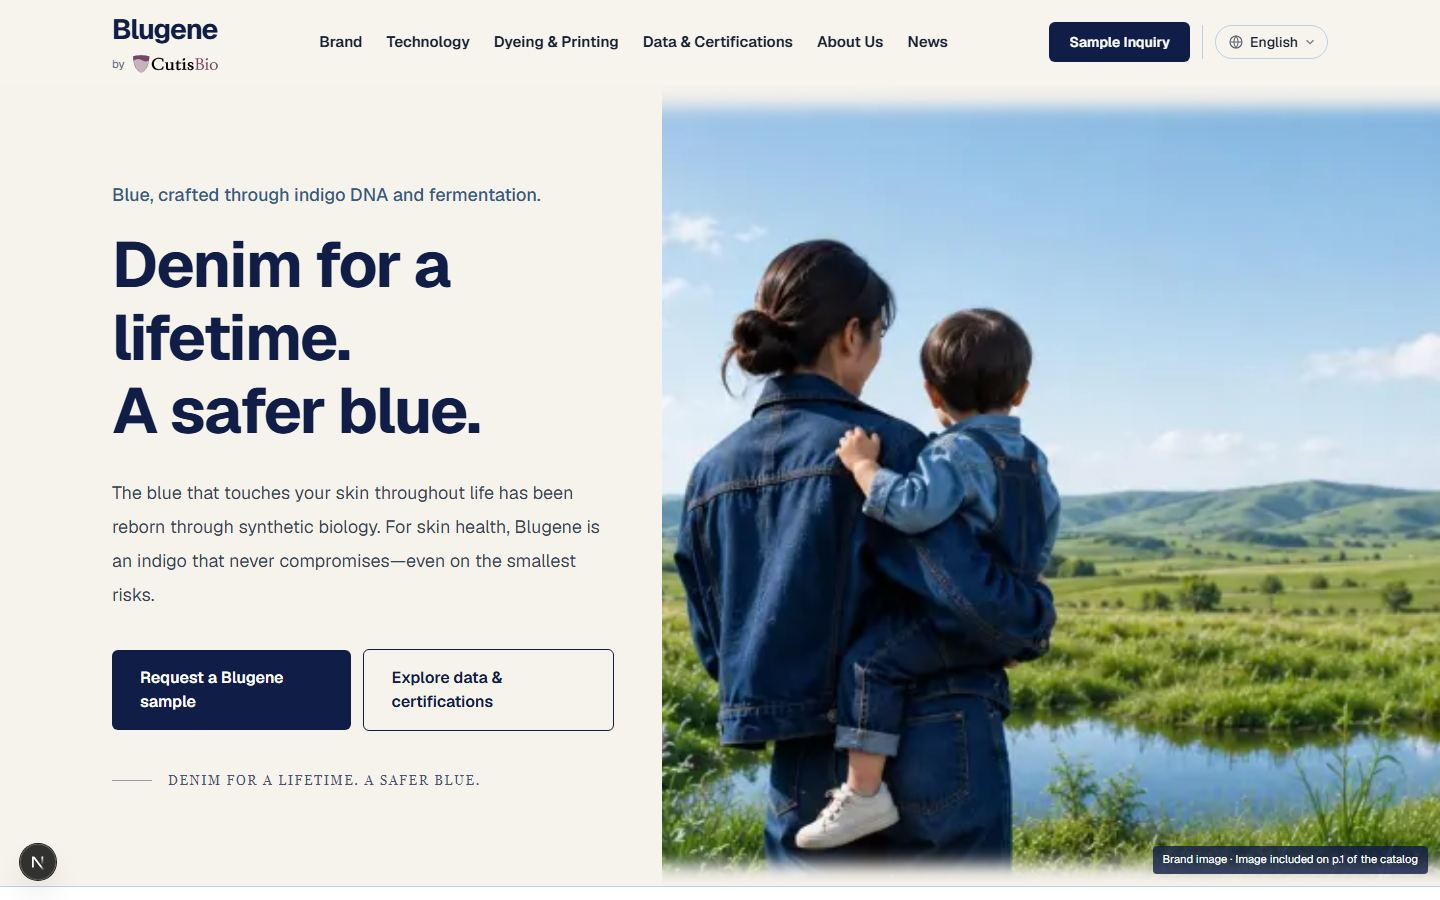
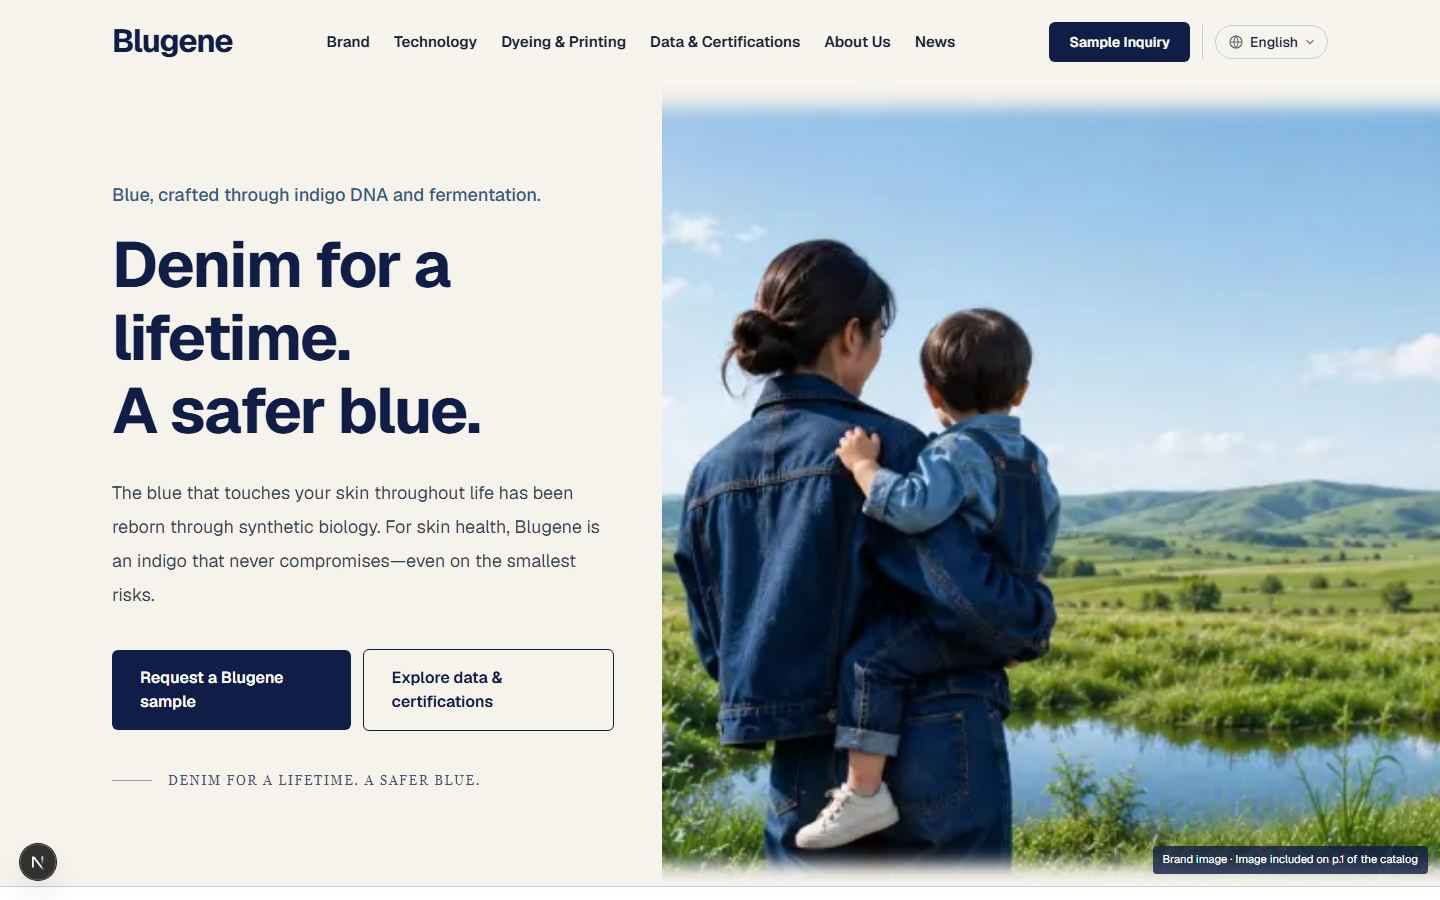
feat(brand): 워드마크에서 `by CutisBio` 를 떼고 `Blugene` 만 남긴다
화면에 보이는 상표는 `Blugene` 하나로 통일한다. 회사와의 관계는 로고가 아니라
글로 밝히는 자리가 이미 세 곳 있다 — 푸터의 `CutisBio Co., Ltd. (큐티스바이오)` 줄,
/brand 의 'CutisBio 와의 관계' 절, /about 상단의 회사 로고.

- Wordmark: `<Image>` 로 붙이던 CutisBio 로고와 `by` 줄을 없앴다. 두 줄이 한 줄이
  되면서 세로 높이가 절반이 되므로, 헤더에서 존재감이 줄지 않도록 글자를 한 단계씩
  키웠다(md 24/28px → 28/32px). 헤더 높이(`--header-h`)는 그대로다.
- 락업이 보이던 세 곳(헤더 · 푸터 · /brand 이름 절)이 모두 이 컴포넌트를 거치므로
  한 곳만 고치면 된다. /about 의 CutisBio 로고는 법인 로고이지 이 락업이 아니라
  손대지 않았다.
- 루트 404 의 제목도 화면에서는 같은 역할을 하던 락업이라 `Blugene` 으로 맞추고
  헤더와 같은 서체(`.blugene-wordmark`)를 쓰게 했다.
- `Nav.homeAria` 를 6개 언어 모두 `Blugene ...` 으로 고쳤다. 링크의 접근성 이름이
  화면 글자와 어긋나면 안 된다(WCAG 2.5.3). 손으로 옮긴 문구이므로 번역 상태
  파일의 기준 해시도 함께 갱신해 재번역이 덮어쓰지 않게 했다.

검증: typecheck · lint · check:blugene · build 통과. 360px 에서 1440px 까지 가로
넘침 없음(가장 빠듯한 벵골어 1280px 에서도 메뉴가 한 줄에 들어간다). 캡처 21장 갱신.

문서용 메타데이터(`<title>` · OG siteName · 이미지 alt)의 `Blugene by CutisBio` 는
로고가 아니라 글이라 그대로 두었다.

Changed region(s): [[0.2188, 0.0311, 0.6562, 0.0622], [0.0625, 0.0, 0.1562, 0.0933]]

diff --git a/src/components/blugene/Wordmark.tsx b/src/components/blugene/Wordmark.tsx
@@ -1,26 +1,24 @@
-import Image from 'next/image';
 import { Link } from '@/i18n/routing';
 import { BRAND } from '@/data/blugene/site';
 
 /**
- * Blugene 워드마크 + `by CutisBio` 락업.
+ * Blugene 워드마크.
  *
- * `by` 뒤의 CutisBio 는 **실제 회사 로고(SVG)** 를 쓴다.
- * - 밝은 배경: `/brand/cutisbio-logo.svg` (원본 색 그대로)
- * - 어두운 배경: `/brand/cutisbio-logo-white.svg` (단색 흰색 판본)
- * 두 파일 모두 원본 `logo_cutis_2.svg` 에서 viewBox 만 실제 그림 영역에 맞춰 잘라낸 것이며
- * 형태는 손대지 않았다. 자세한 내용은 docs/blugene-visual-assets.md 참조.
+ * 예전에는 `Blugene` 아래에 `by` + CutisBio 회사 로고(SVG)를 얹은 두 줄 락업이었다.
+ * 지금은 브랜드 이름만 쓴다 — 회사와의 관계는 로고가 아니라 글로 밝힌다:
+ * 푸터의 `CutisBio Co., Ltd. (큐티스바이오)` 줄, /brand 의 '큐티스바이오와의 관계' 절,
+ * /about 페이지 상단의 회사 로고가 그 역할을 한다.
+ *
+ * 한 줄이 되면서 세로로 차지하던 높이가 절반이 됐으므로, 헤더에서 존재감이 줄지 않도록
+ * 글자 크기를 한 단계씩 키웠다. 헤더 높이(`--header-h`)는 그대로 둔다.
  *
  * `Blugene` 표기 규칙: 첫 글자 B 만 대문자. BluGene / Bluegene 등 변형과 ® 표기를 쓰지 않는다.
  * 서체는 `.blugene-wordmark` (globals.css) 한 곳에서 관리한다 — 세리프로 바꾸려면 그 규칙만 수정한다.
  */
-
-/** 로고 원본 가로세로비 296.05 : 62.35 ≈ 4.7482 : 1 */
-// 로고 안에서 글자는 방패보다 낮아(약 69%) 보이므로, 글자 높이가 읽히도록 조금 넉넉히 잡는다.
 const SCALE = {
-  sm: { name: 'text-lg sm:text-xl', by: 'text-[0.6rem]', logoW: 62, logoH: 13, gap: 'gap-1.5' },
-  md: { name: 'text-2xl sm:text-[1.75rem]', by: 'text-[0.72rem]', logoW: 85, logoH: 18, gap: 'gap-2' },
-  lg: { name: 'text-3xl sm:text-4xl', by: 'text-[0.85rem]', logoW: 114, logoH: 24, gap: 'gap-2.5' },
+  sm: 'text-xl sm:text-2xl',
+  md: 'text-[1.75rem] sm:text-[2rem]',
+  lg: 'text-4xl sm:text-5xl',
 } as const;
 
 export default function Wordmark({
@@ -34,35 +32,20 @@ export default function Wordmark({
   href?: string | null;
   label?: string;
 }) {
-  const scale = SCALE[size];
-  const inverse = tone === 'inverse';
-
-  const nameColor = inverse ? 'text-white' : 'text-[var(--color-indigo-deep)]';
-  const byColor = inverse ? 'text-white/70' : 'text-[var(--color-slate-muted)]';
+  const color = tone === 'inverse' ? 'text-white' : 'text-[var(--color-indigo-deep)]';
 
   const inner = (
-    <span className="inline-flex flex-col items-start leading-none">
-      <span className={`blugene-wordmark ${scale.name} ${nameColor}`}>{BRAND.name}</span>
-      <span className={`mt-1.5 inline-flex items-center ${scale.gap}`}>
-        <span className={`${scale.by} ${byColor} lowercase`}>by</span>
-        <Image
-          src={inverse ? '/brand/cutisbio-logo-white.svg' : '/brand/cutisbio-logo.svg'}
-          alt={BRAND.company}
-          width={scale.logoW}
-          height={scale.logoH}
-          // SVG 는 Next 이미지 최적화를 거치지 않고 원본 그대로 내보낸다
-          unoptimized
-          className="h-auto w-auto"
-          style={{ width: scale.logoW, height: scale.logoH }}
-        />
-      </span>
+    <span className={`blugene-wordmark inline-block leading-none ${SCALE[size]} ${color}`}>
+      {BRAND.name}
     </span>
   );
 
   if (!href) return inner;
 
+  // 링크의 접근성 이름은 화면에 보이는 글자와 어긋나면 안 된다(WCAG 2.5.3).
+  // 이름만 보이므로 label 도 `Blugene` 기준이다.
   return (
-    <Link href={href} aria-label={label ?? BRAND.lockup} className="inline-block">
+    <Link href={href} aria-label={label ?? BRAND.name} className="inline-block">
       {inner}
     </Link>
   );

diff --git a/src/app/not-found.tsx b/src/app/not-found.tsx
@@ -26,8 +26,10 @@ export default function RootNotFound() {
     <div className="flex min-h-screen items-center justify-center bg-[var(--color-ivory)] text-[var(--color-ink)]">
       <main className="max-w-[560px] px-8 py-12 text-center">
         <p className="text-xs font-semibold tracking-[0.2em] text-[var(--color-denim)]">404</p>
-        <h1 className="mt-3 text-2xl font-bold text-[var(--color-indigo-deep)] sm:text-[1.75rem]">
-          {BRAND.lockup}
+        {/* 헤더의 워드마크와 같은 표기 · 같은 서체를 쓴다 — 화면에 보이는 상표는 `Blugene` 하나다.
+            (`Wordmark` 컴포넌트는 next-intl 의 Link 를 쓰므로 이 위치에서는 부를 수 없다.) */}
+        <h1 className="blugene-wordmark mt-3 text-[2rem] leading-none font-bold text-[var(--color-indigo-deep)]">
+          {BRAND.name}
         </h1>
         <p className="mt-4 leading-[1.8] break-keep text-[var(--color-slate-muted)]">
           The page you requested was not found. / 요청하신 페이지를 찾을 수 없습니다.

diff --git a/src/components/ui/Header.tsx b/src/components/ui/Header.tsx
@@ -8,7 +8,7 @@ import Wordmark from '@/components/blugene/Wordmark';
 import { PRIMARY_NAV } from '@/data/blugene/site';
 
 /**
- * BrandHeader — Blugene by CutisBio.
+ * BrandHeader — Blugene 워드마크 + 주 메뉴 + 언어 전환.
  *
  * 밝은 콘텐츠 위에서도 항상 읽히도록 **불투명 배경**을 유지한다(투명 헤더를 쓰지 않는다).
  * 언어 선택기는 데스크톱·모바일 모두 오른쪽 상단에 항상 보인다.
